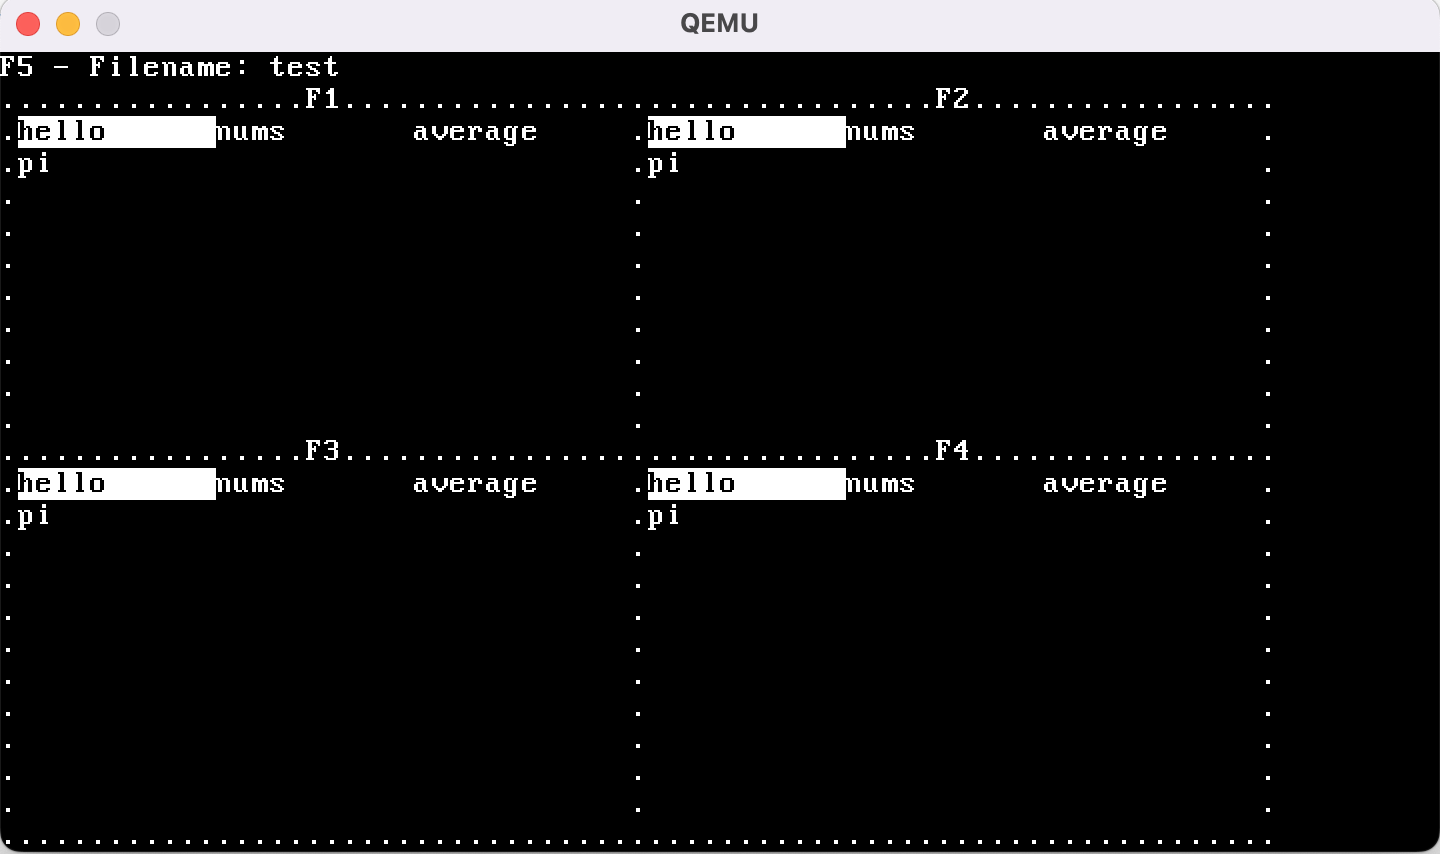
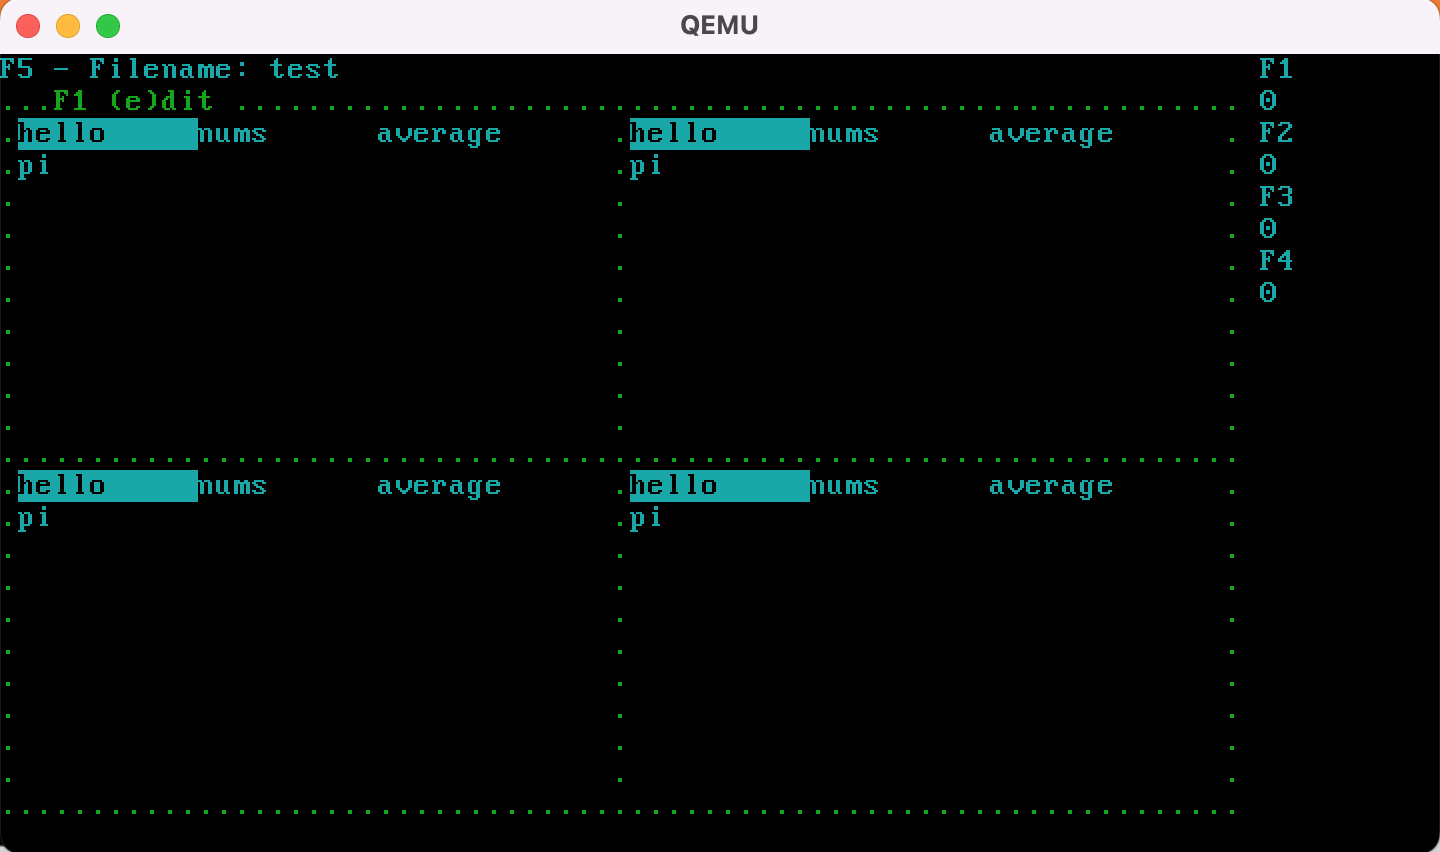
Updates to Project 10

diff --git a/projects/swim.md b/projects/swim.md
@@ -64,9 +64,9 @@ given in three columns, each of which may contain up to 10 rows.
 * If you use the left-arrow and right-arrow keys, it should cycle through the 
   files, highlighting the current file.
 
-After completing Step 2, SWIM should look like this:
+After completing Level 1, SWIM should look like this:
 
-<img src="https://hendrix-cs.github.io/csci320/assets/images/swim_step_2.png" width=500> 
+<img src="https://hendrix-cs.github.io/csci320/assets/images/SWIM_Level_1.png" width=500> 
 
 ## File Text
 
@@ -197,6 +197,10 @@ While editing the file in the `F1` buffer, it should look like this:
 After saving the file using `F6` and reopening it in the `F2` buffer, it should look
 like this:
 <img src="https://hendrix-cs.github.io/csci320/assets/images/swim_step_3d.png" width=500>    
+
+After closing the `F2` buffer and running the program in the `F3` buffer, it should look
+like this:
+<img src="https://hendrix-cs.github.io/csci320/assets/images/swim_step_3e.png" width=500>
 
 
 ## Acknowledgement
